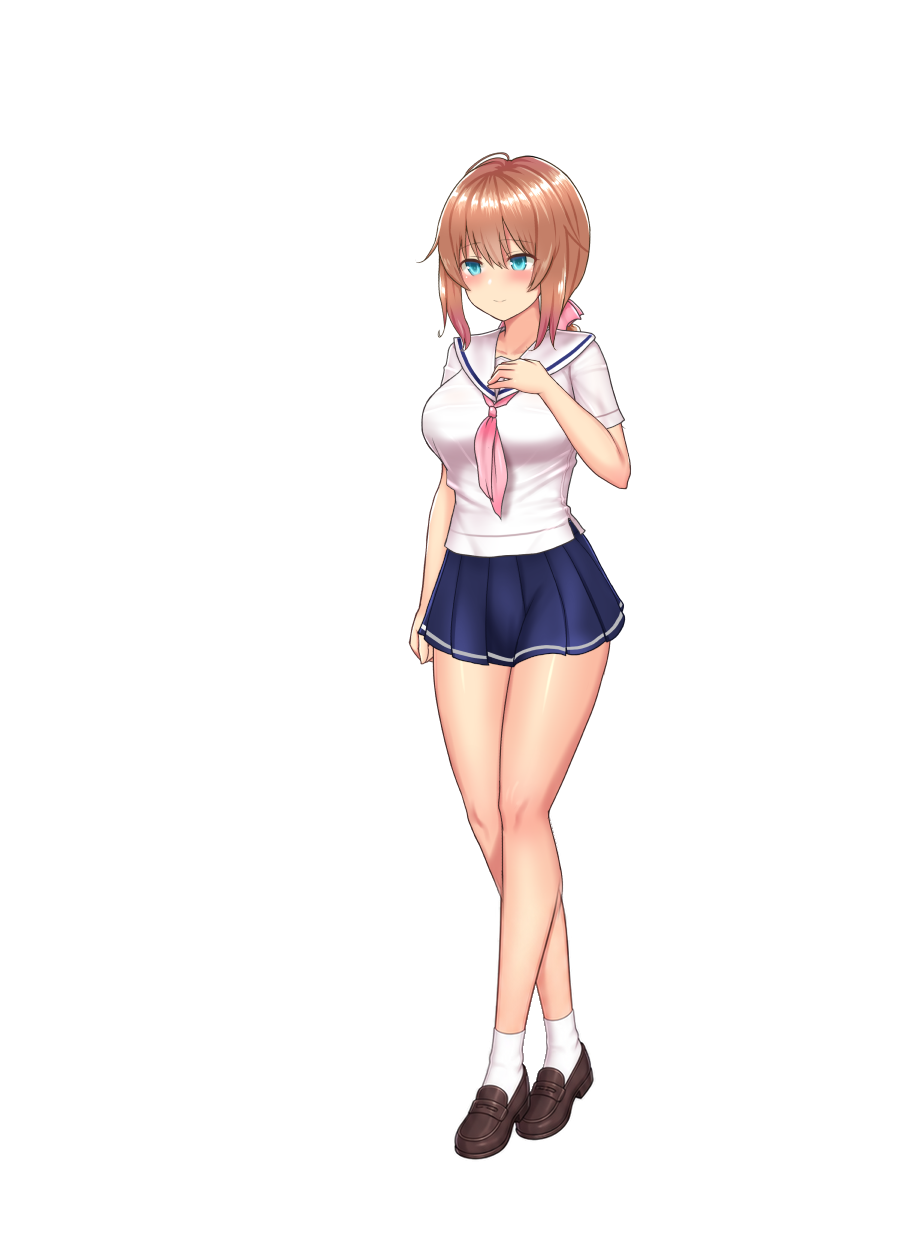
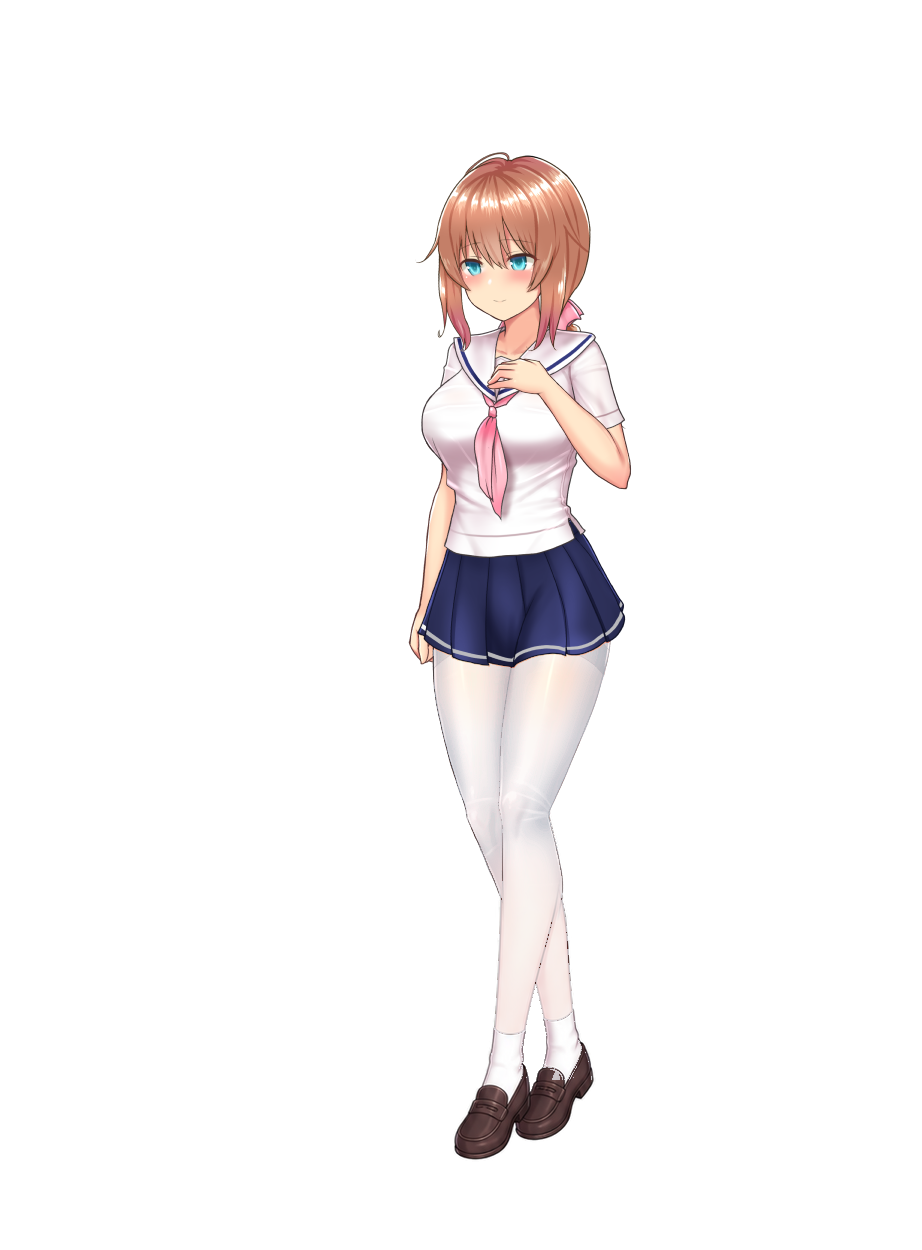
art(maiden): add white tights to school uniform

Changed region(s): [[0.4555, 0.4992, 0.6681, 0.8424]]

diff --git a/scripts/BuildNormalWhiteTightsAsset.py b/scripts/BuildNormalWhiteTightsAsset.py
@@ -1,0 +1,151 @@
+from __future__ import annotations
+
+import argparse
+import colorsys
+import hashlib
+import shutil
+from pathlib import Path
+
+from PIL import Image
+
+
+CANVAS_SIZE = (922, 1250)
+SOURCE_LAYER_SIZE = (922, 922)
+LEG_TINT_BOX = (420, 675, 620, 1080)
+LEG_TINT_RAMP_END = 735
+OPTION_FADE_START = 820
+OPTION_FADE_END = 922
+TINT_RGB = (246, 249, 255)
+TINT_STRENGTH = 0.68
+
+
+def sha256(path: Path) -> str:
+    return hashlib.sha256(path.read_bytes()).hexdigest()
+
+
+def tint_extended_legs(image: Image.Image) -> Image.Image:
+    """Continue the source tights material across the STS2-only leg extension."""
+    result = image.convert("RGBA")
+    pixels = result.load()
+    left, top, right, bottom = LEG_TINT_BOX
+
+    for y in range(top, min(bottom, result.height)):
+        ramp = min(1.0, max(0.0, (y - top) / (LEG_TINT_RAMP_END - top)))
+        strength = TINT_STRENGTH * ramp
+        for x in range(left, min(right, result.width)):
+            red, green, blue, alpha = pixels[x, y]
+            if alpha < 16:
+                continue
+
+            hue, saturation, value = colorsys.rgb_to_hsv(
+                red / 255.0,
+                green / 255.0,
+                blue / 255.0,
+            )
+            is_skin = (
+                (hue <= 0.13 or hue >= 0.95)
+                and 0.08 <= saturation <= 0.68
+                and value >= 0.38
+            )
+            if not is_skin:
+                continue
+
+            pixels[x, y] = (
+                round(red * (1.0 - strength) + TINT_RGB[0] * strength),
+                round(green * (1.0 - strength) + TINT_RGB[1] * strength),
+                round(blue * (1.0 - strength) + TINT_RGB[2] * strength),
+                alpha,
+            )
+
+    return result
+
+
+def fade_source_bottom(option: Image.Image) -> Image.Image:
+    """Remove the source canvas's hard lower edge before joining the extension."""
+    result = option.convert("RGBA")
+    pixels = result.load()
+    fade_height = OPTION_FADE_END - OPTION_FADE_START
+
+    for y in range(OPTION_FADE_START, min(OPTION_FADE_END, result.height)):
+        factor = 1.0 - (y - OPTION_FADE_START) / fade_height
+        for x in range(result.width):
+            red, green, blue, alpha = pixels[x, y]
+            pixels[x, y] = (red, green, blue, round(alpha * factor))
+
+    return result
+
+
+def mask_behind_cloth(option: Image.Image, cloth: Image.Image) -> Image.Image:
+    """Keep the baked school uniform pixel-identical while placing tights behind it."""
+    result = option.copy()
+    pixels = result.load()
+    cloth_alpha = cloth.getchannel("A")
+    for y in range(result.height):
+        for x in range(result.width):
+            if cloth_alpha.getpixel((x, y)) > 0:
+                red, green, blue, _ = pixels[x, y]
+                pixels[x, y] = (red, green, blue, 0)
+    return result
+
+
+def main() -> None:
+    parser = argparse.ArgumentParser(
+        description="Build the school-uniform portrait with original white tights."
+    )
+    parser.add_argument(
+        "--source",
+        type=Path,
+        default=Path(
+            r"D:\game_backup\butter\魔法少女天穹法妮雅 超魔改 V56.5 魔改三合一1"
+            r"\www\img\pictures\actor01_pose01_option_0012.png"
+        ),
+        help="Original-game PID 12 white-tights layer.",
+    )
+    parser.add_argument(
+        "--character-dir",
+        type=Path,
+        default=Path(__file__).resolve().parents[1]
+        / "MaidenSuccubus"
+        / "images"
+        / "character",
+    )
+    args = parser.parse_args()
+
+    character_dir = args.character_dir
+    output_path = character_dir / "character_normal.png"
+    base_path = character_dir / "character_normal_bare_legs.png"
+    local_option_path = character_dir / "white_tights_option_0012.png"
+    cloth_path = character_dir / "cloth_0001.png"
+
+    if not args.source.exists():
+        raise FileNotFoundError(args.source)
+    if not output_path.exists():
+        raise FileNotFoundError(output_path)
+    if not base_path.exists():
+        shutil.copyfile(output_path, base_path)
+    shutil.copyfile(args.source, local_option_path)
+
+    base = Image.open(base_path).convert("RGBA")
+    option = Image.open(local_option_path).convert("RGBA")
+    cloth = Image.open(cloth_path).convert("RGBA")
+    if base.size != CANVAS_SIZE:
+        raise ValueError(f"Expected {base_path.name} to be {CANVAS_SIZE}.")
+    if option.size != SOURCE_LAYER_SIZE or cloth.size != SOURCE_LAYER_SIZE:
+        raise ValueError("Expected source option and school uniform layers to be 922x922.")
+
+    result = tint_extended_legs(base)
+    option = mask_behind_cloth(fade_source_bottom(option), cloth)
+    result.alpha_composite(option, (0, 0))
+    result.save(output_path, format="PNG", optimize=True)
+
+    if sha256(args.source) != sha256(local_option_path):
+        raise RuntimeError("Local PID 12 layer differs from the original source file.")
+
+    print(
+        "Built character_normal.png at 922x1250 with the original PID 12 "
+        "white-tights layer and a seamless lower-leg extension."
+    )
+
+
+if __name__ == "__main__":
+    main()

diff --git a/CHANGELOG.md b/CHANGELOG.md
@@ -1,5 +1,13 @@
 # Changelog
 
+## 2026-09-12 — 普通校服形态改用原作白丝连裤袜
+
+- 变更前快照：`maiden-pre-normal-white-tights-20260912` → `a071063`；未修改或提交玩家正在编辑的`DesignDoc.md`。
+- 原作装备数据库中“白丝连裤袜”（Armor 307）的`PID:12`对应`actor01_pose01_option_0012.png`；将该原始透明图层保存为`white_tights_option_0012.png`并用于普通校服形态，未误用实际呈深色的`actor01_pose01_stockings01.png`。
+- 保留现有`922×1250`校服立绘的脸、身体比例、姿势、棕色便鞋和战斗锚点；原作裤袜层在膝下渐隐，并将同一白色半透明材质延伸到现有全身腿部，消除原作`922×922`画布底边的水平截断。
+- 保存替换前的`character_normal_bare_legs.png`并新增可重复执行的`BuildNormalWhiteTightsAsset.py`；已验证脚本重复执行哈希不变、备份与变更前Git对象一致、原作图层哈希一致，输出为`922×1250 RGBA`且脚底坐标不变。像素差异严格限制在`(432,642)～(610,1079)`腿部区域，实际战斗缩放预览无可见拼接线。
+- 部署：否；本轮只替换普通形态美术素材，不修改角色形态逻辑或部署Mod。
+
 ## 2026-09-12 — 邪瘴天衣三档可用战斗立绘
 
 - 变更前快照：`maiden-pre-corrupt-form-assets-20260912` → `ec320d4`；未修改玩家正在编辑的`DesignDoc.md`。
